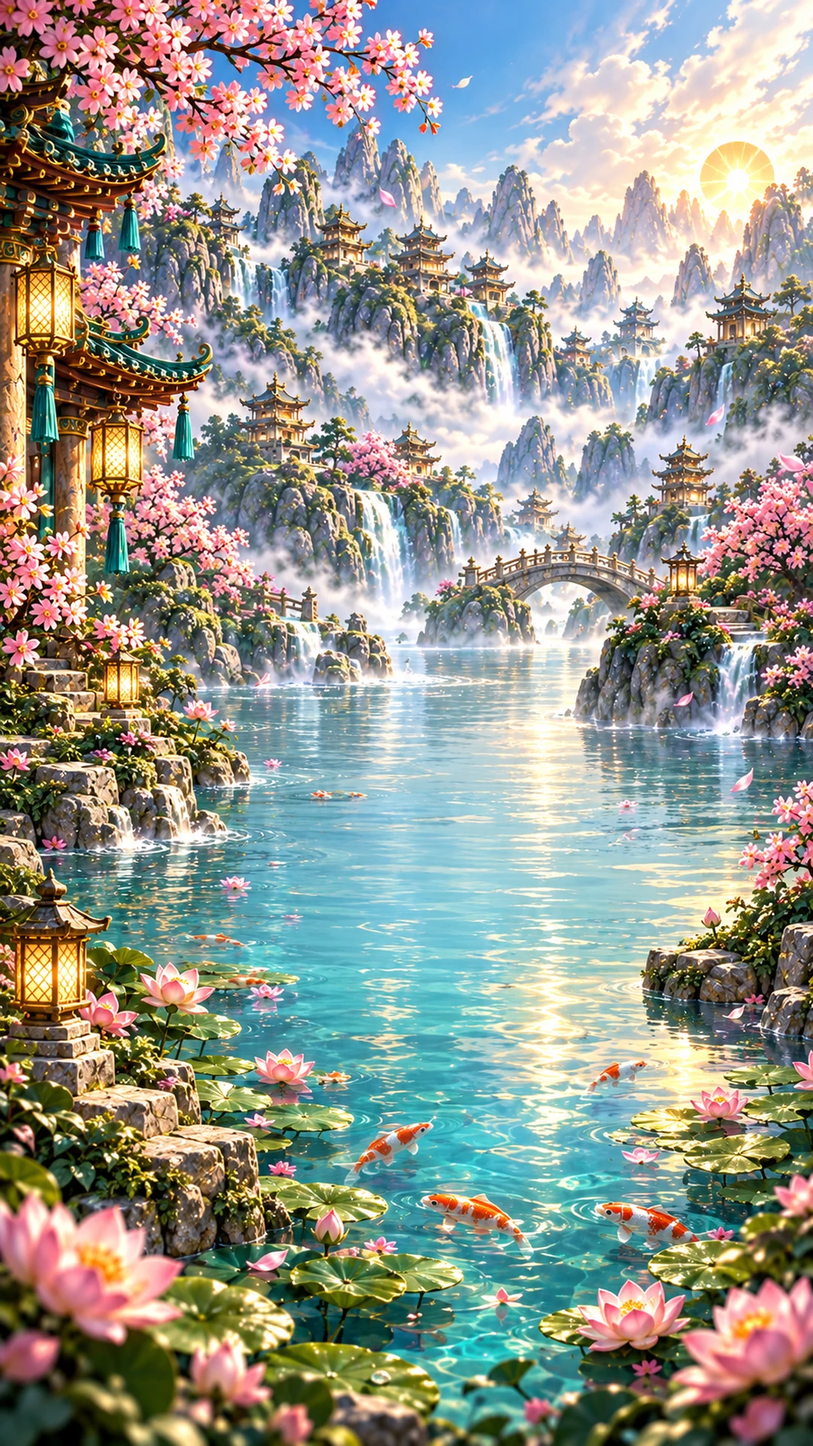
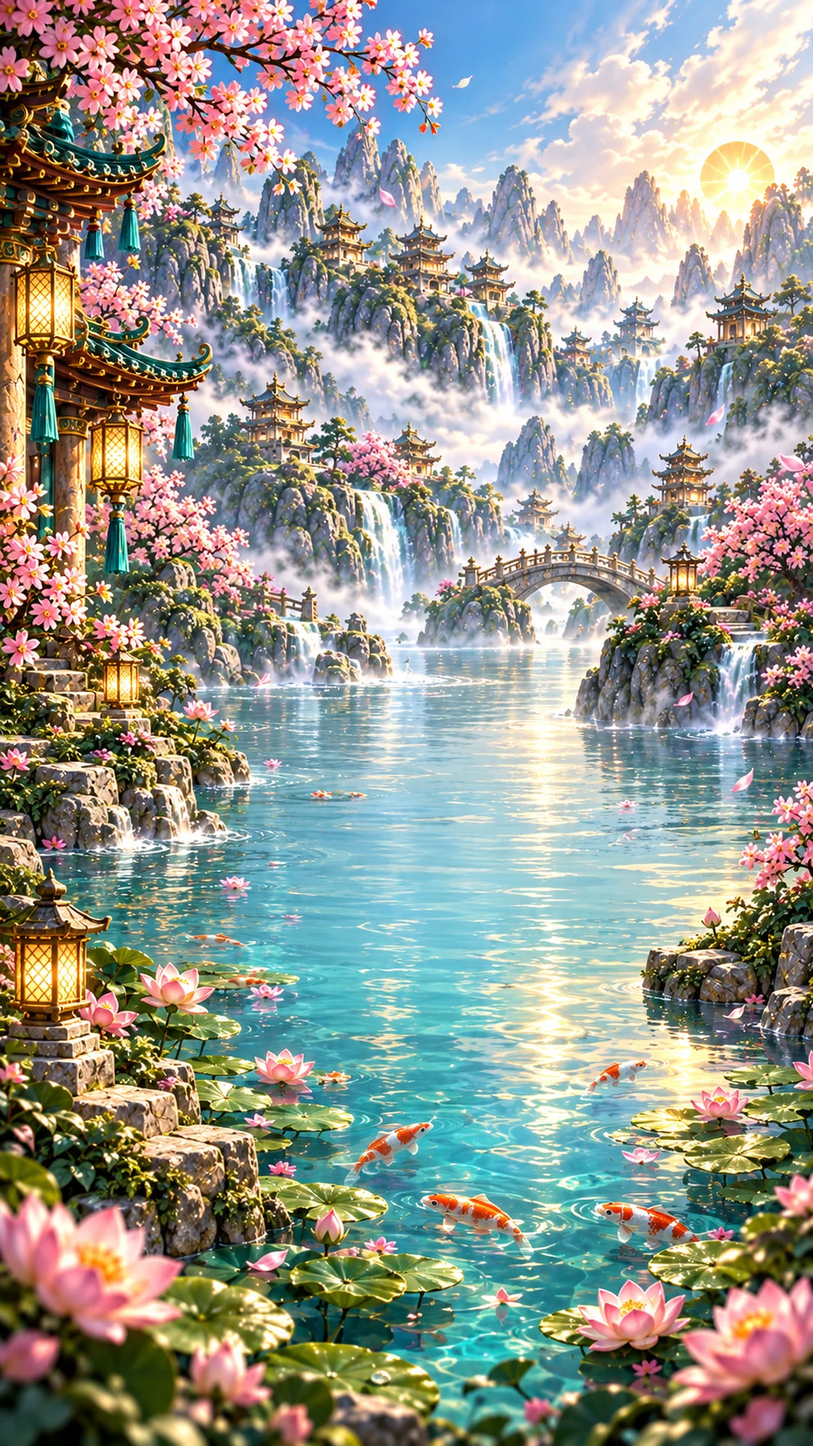
Add converted Chapter 1 backgrounds and wire responsive map

diff --git a/src/scenes/MapScene.js b/src/scenes/MapScene.js
@@ -26,8 +26,12 @@ export class MapScene extends Phaser.Scene {
     );
 
     this.load.image(
-      'ch1_bg_master',
-      'assets/runtime/backgrounds/ch1/ch1_bg_master.webp?v=20260922-1'
+      'ch1_map_bg_16x9',
+      'assets/runtime/backgrounds/ch1/map/ch1_map_bg_16x9.webp?v=20260929-1'
+    );
+    this.load.image(
+      'ch1_map_bg_9x16',
+      'assets/runtime/backgrounds/ch1/map/ch1_map_bg_9x16.webp?v=20260929-1'
     );
   }
 
@@ -40,8 +44,9 @@ export class MapScene extends Phaser.Scene {
 
     this.buildPath();
 
-    if (this.textures.exists('ch1_bg_master')) {
-      this.createWorldBackground();
+    const bgKey = this.scale.height > this.scale.width ? 'ch1_map_bg_9x16' : 'ch1_map_bg_16x9';
+    if (this.textures.exists(bgKey)) {
+      this.createWorldBackground(bgKey);
     } else {
       this.createFallbackBackground();
     }
@@ -90,26 +95,26 @@ export class MapScene extends Phaser.Scene {
     d.destroy();
   }
 
-  createWorldBackground() {
+  createWorldBackground(bgKey) {
     const { width, height } = this.scale;
     const portrait = height > width;
-    const srcW = 1920;
-    const srcH = 1080;
+    const texture = this.textures.get(bgKey).getSourceImage();
+    const srcW = texture.width;
+    const srcH = texture.height;
 
-    // TEST background pass: one approved-style Chapter 1 master is repeated/mirrored
-    // to cover the whole scrollable path. Final Batch D will replace this with
-    // ch1_bg_far / ch1_bg_water / ch1_fg_soft without changing the map logic.
-    const scale = Math.max(width / srcW, height / srcH) * 1.06;
+    // Each background chunk covers the visible viewport without stretching.
+    // Phaser clips everything to the canvas, so artwork never leaks outside the screen.
+    const scale = Math.max(width / srcW, height / srcH);
     const chunkW = srcW * scale;
     const chunkH = srcH * scale;
-    const span = portrait ? Math.max(height * 0.92, chunkH * 0.72) : Math.max(width * 0.92, chunkW * 0.72);
+    const span = portrait ? height : width;
     const count = Math.ceil(this.worldExtent / span) + 1;
 
     for (let i = 0; i < count; i++) {
-      const x = portrait ? width / 2 : i * span + span / 2;
-      const y = portrait ? i * span + span / 2 : height / 2;
+      const x = portrait ? width / 2 : i * span + width / 2;
+      const y = portrait ? i * span + height / 2 : height / 2;
 
-      this.add.image(x, y, 'ch1_bg_master')
+      this.add.image(x, y, bgKey)
         .setOrigin(0.5)
         .setScale(scale)
         .setFlipX(i % 2 === 1)
@@ -117,12 +122,9 @@ export class MapScene extends Phaser.Scene {
     }
 
     const veil = this.add.graphics().setDepth(-90);
-    veil.fillStyle(0x062f29, 0.12);
-    if (portrait) {
-      veil.fillRect(0, 0, width, this.worldExtent);
-    } else {
-      veil.fillRect(0, 0, this.worldExtent, height);
-    }
+    veil.fillStyle(0x062f29, 0.08);
+    if (portrait) veil.fillRect(0, 0, width, this.worldExtent);
+    else veil.fillRect(0, 0, this.worldExtent, height);
   }
 
   createFallbackBackground() {

diff --git a/assets/README.md b/assets/README.md
@@ -78,3 +78,20 @@ Chapter 1 target runtime filenames:
 - `backgrounds/ch1/gameplay/ch1_level_bg_9x16.webp`
 
 The current root-level `ch1_bg_master.webp` remains TEST only until replaced by selected production backgrounds.
+
+
+### Chapter 1 — files already placed
+
+Source masters:
+- `source/chapters/ch1/backgrounds/map/landscape/ch1_map_master_16x9.webp`
+- `source/chapters/ch1/backgrounds/map/portrait/ch1_map_master_9x16.webp`
+- `source/chapters/ch1/backgrounds/gameplay/landscape/ch1_level_master_16x9.webp`
+- `source/chapters/ch1/backgrounds/gameplay/portrait/ch1_level_master_9x16.webp`
+
+Runtime:
+- `runtime/backgrounds/ch1/map/ch1_map_bg_16x9.webp`
+- `runtime/backgrounds/ch1/map/ch1_map_bg_9x16.webp`
+- `runtime/backgrounds/ch1/gameplay/ch1_level_bg_16x9.webp`
+- `runtime/backgrounds/ch1/gameplay/ch1_level_bg_9x16.webp`
+
+All four runtime backgrounds are exact target dimensions and WebP.
